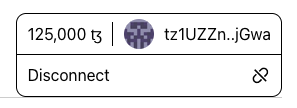
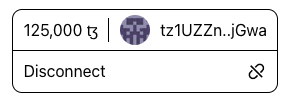
More screenshots

Changed region(s): [[0.0, 0.0874, 0.9688, 0.9029]]

diff --git a/example/src/App.css b/example/src/App.css
@@ -14,7 +14,7 @@
   width: 300px;
 }
 .App .header img {
-  width: 60px;
+  width: 40px;
 }
 .App .header h1 {
   flex: auto;

diff --git a/README.md b/README.md
@@ -56,7 +56,7 @@ const App = () => {
 ![screenshot1](screenshots/NotConnected.png?raw=true "Screenshot1")  
 ![screenshot2](screenshots/Connected.png?raw=true "Screenshot2")  
 ![screenshot3](screenshots/WithMenu.png?raw=true "Screenshot3")  
-![video1](screenshots/demo.gif?raw=true "Video1")  
+![screenshot4](screenshots/ConnectedSmall.png?raw=true "Screenshot4")  
 
 ## License
 
